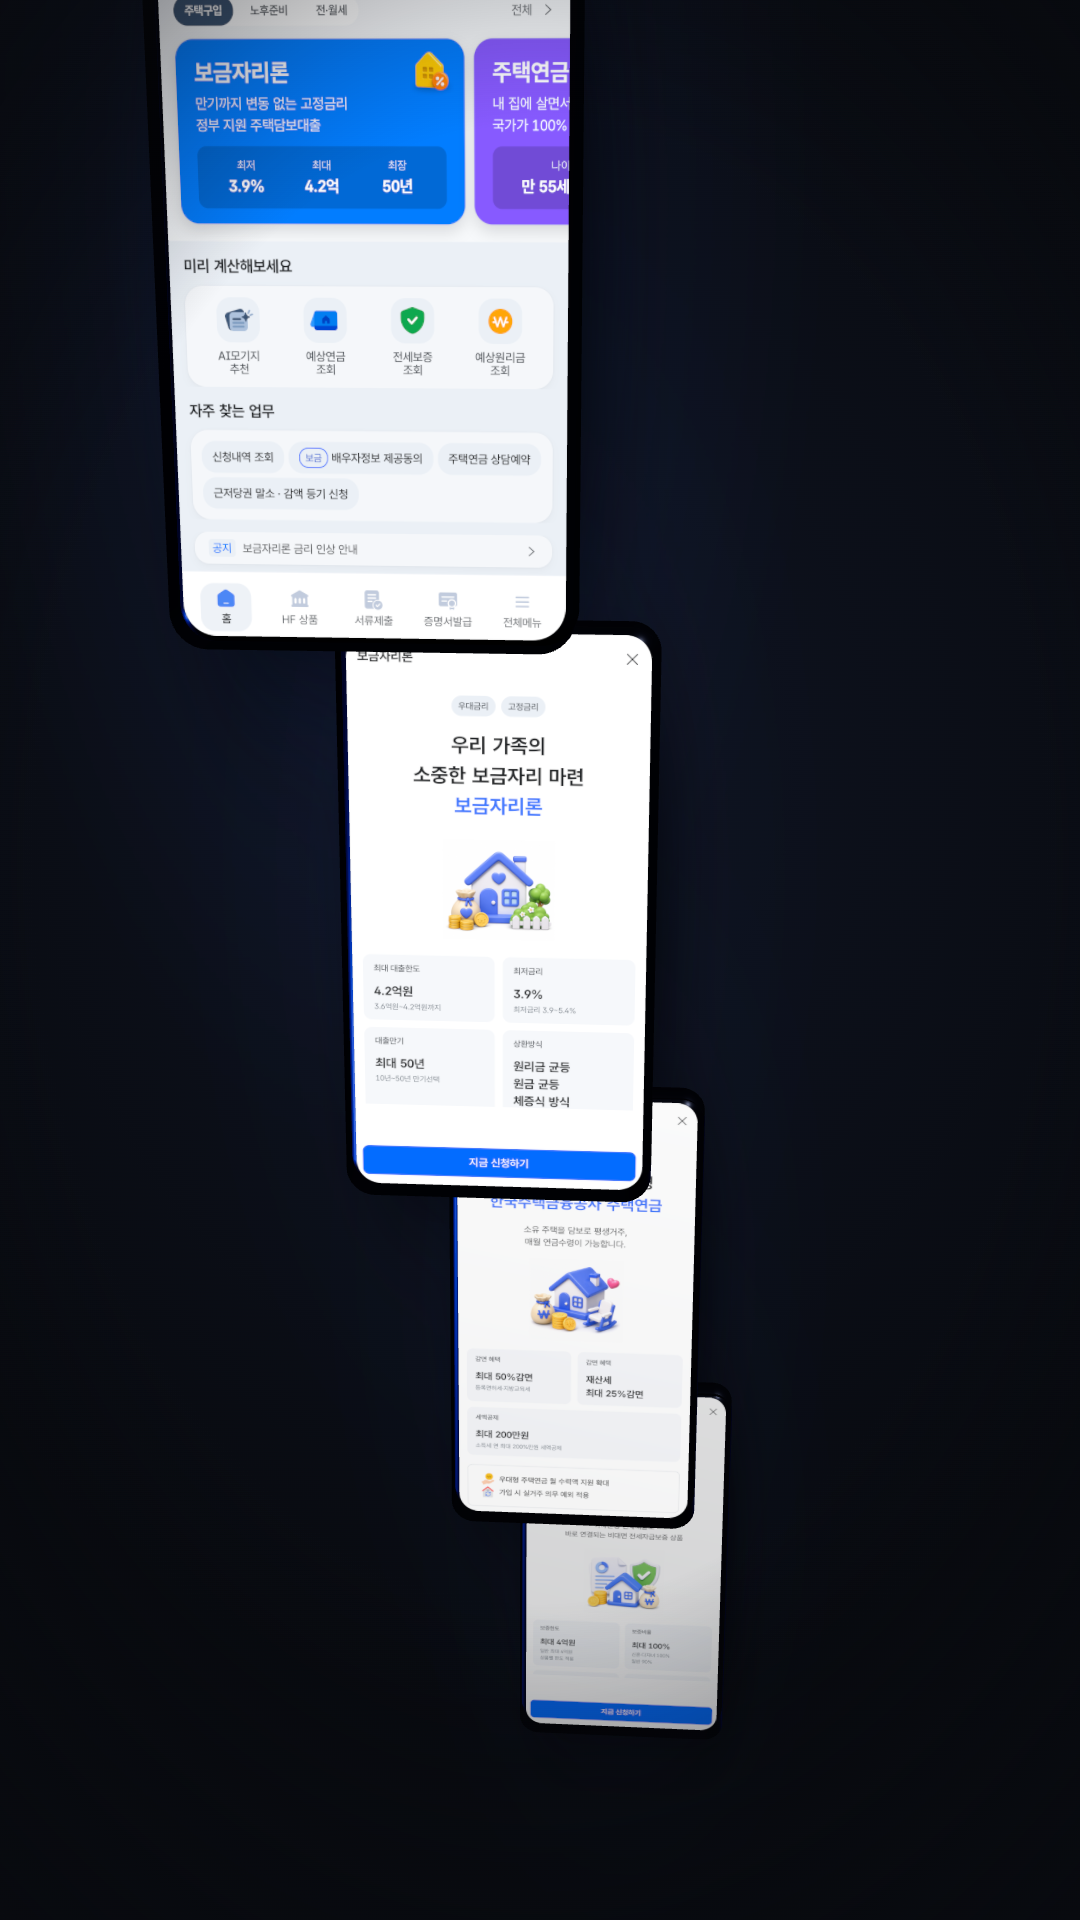
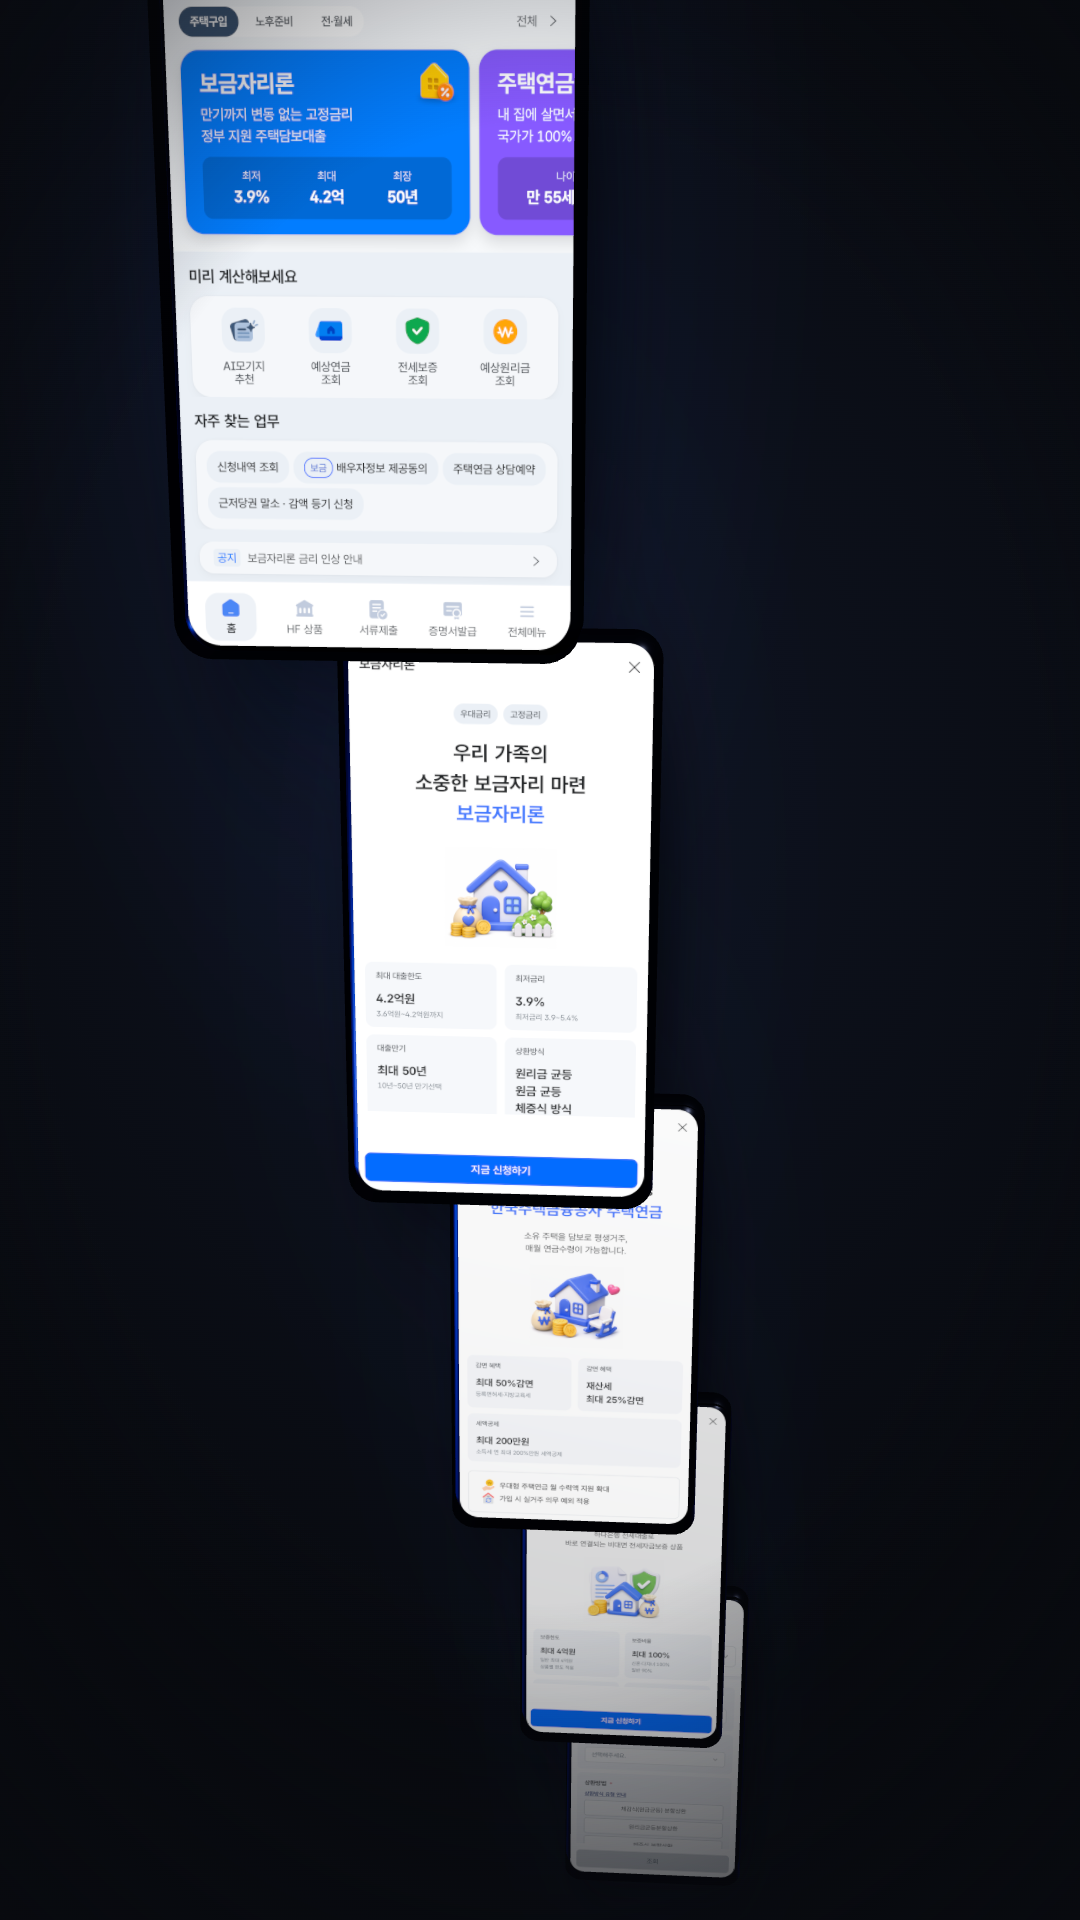
HF vertical flythrough: add repayment screen (5 screens)
Longer staircase, four-page flythrough, overview reworked to home
front-centre with four screens fanned behind; refreshed stills.

Claude-Session: https://claude.ai/code/session_019kZ9HtGXyuu9kNJRq9Jcr6

Changed region(s): [[0.1222, 0.0, 0.7028, 1.0], [0.4278, 0.1562, 0.4889, 0.25], [0.6417, 0.7188, 0.6722, 0.75]]

diff --git a/3d-website-flythrough/src/hf/layout.ts b/3d-website-flythrough/src/hf/layout.ts
@@ -18,16 +18,17 @@ const st = (i: number, d: Vec3 = [0, 0, 0]): Vec3 => [
 ];
 const add = (a: Vec3, b: Vec3): Vec3 => [a[0] + b[0], a[1] + b[1], a[2] + b[2]];
 
-// Overview 2×2 grid centre and slots (home TL, 보금자리론 TR, 주택연금 BL, 전세ON BR)
-export const C: Vec3 = [1.4, -6.4, -4.6];
+// Overview: home front-centre, the other four fanned behind at the corners.
+export const C: Vec3 = [2.0, -9.4, -6.4];
 const GRID: { off: Vec3; rot: Vec3 }[] = [
-  { off: [-1.26, 2.3, 0.15], rot: [3 * DEG, 11 * DEG, 0] },
-  { off: [1.26, 2.36, -0.45], rot: [3 * DEG, -11 * DEG, 0] },
-  { off: [-1.26, -2.36, -0.45], rot: [-3 * DEG, 11 * DEG, 0] },
-  { off: [1.26, -2.3, 0.15], rot: [-3 * DEG, -11 * DEG, 0] },
+  { off: [0, 0, 1.5], rot: [0, 0, 0] }, // home
+  { off: [-1.5, 2.45, -1.1], rot: [3 * DEG, 15 * DEG, 0] },
+  { off: [1.5, 2.45, -1.1], rot: [3 * DEG, -15 * DEG, 0] },
+  { off: [-1.5, -2.45, -1.1], rot: [-3 * DEG, 15 * DEG, 0] },
+  { off: [1.5, -2.45, -1.1], rot: [-3 * DEG, -15 * DEG, 0] },
 ];
-// Ending: the home screen comes to the centre, slightly forward.
-export const END: Vec3 = add(C, [0, 0, 1.2]);
+// Ending: the home screen stays front-centre.
+export const END: Vec3 = add(C, [0, 0, 1.5]);
 
 const STAIR_ROT: Vec3 = [0, -9 * DEG, 0];
 
@@ -60,10 +61,10 @@ function keysFor(i: number): Key<PanelPose>[] {
   }
   const target = st(i);
   const hidden: PanelPose = { pos: [0.15, -0.3, -0.6], rot: STAIR_ROT, scale: 0.84, opacity: 0 };
-  const start = s(3.05) + (i - 1) * 12;
+  const start = s(3.05) + (i - 1) * 10;
   const settled: PanelPose = { pos: target, rot: STAIR_ROT, scale: 1, opacity: 1 };
   const away: PanelPose = {
-    pos: add(ov.pos, [Math.sign(g.off[0]) * 1.1, Math.sign(g.off[1]) * 0.8, -2.6]),
+    pos: add(ov.pos, [Math.sign(g.off[0]) * 1.2, Math.sign(g.off[1]) * 1.0, -2.8]),
     rot: ov.rot,
     scale: 0.95,
     opacity: 0,
@@ -78,7 +79,7 @@ function keysFor(i: number): Key<PanelPose>[] {
   ];
 }
 
-const KEYS = [0, 1, 2, 3].map(keysFor);
+const KEYS = [0, 1, 2, 3, 4].map(keysFor);
 
 export function phonePose(i: number, frame: number): PanelPose {
   const p = track(frame, KEYS[i], mixPose);
@@ -108,13 +109,14 @@ export const CAM_KEYS: CamKey[] = [
   { f: s(4.4), pos: [-1.6, 0.6, 12.6], look: [0.9, -3.6, -2.6], roll: 0.012, fov: 46 },
   { f: s(6), pos: [2.6, -2.2, 12.2], look: [1.8, -7.4, -4.8], roll: -0.012, fov: 46 },
   // 03 FLYTHROUGH — descend past each page, close enough to read the cards
-  { f: s(7.1), pos: st(1, [-0.9, 0.2, 6.6]), look: st(1, [0.15, -0.1, 0]), roll: 0.025, fov: 46 },
-  { f: s(8.1), pos: st(2, [-0.9, 0.2, 6.6]), look: st(2, [0.15, -0.1, 0]), roll: -0.03, fov: 46 },
-  { f: s(9.1), pos: st(3, [-0.9, 0.2, 6.6]), look: st(3, [0.15, -0.1, 0]), roll: 0.025, fov: 46 },
-  { f: s(10), pos: st(3, [-2.0, 2.2, 9.0]), look: st(2, [0.6, -1.6, -1.0]), roll: 0, fov: 46 },
-  // 04 OVERVIEW — pull back to the 2×2 grid
-  { f: s(11.3), pos: G([1.1, 0.4, 12.8]), look: G([0.15, -0.5, 0]), fov: 46 },
-  { f: s(13), pos: G([0, 0.0, 14.0]), look: G([0, -0.55, 0]), fov: 46 },
+  { f: s(6.9), pos: st(1, [-0.9, 0.2, 6.6]), look: st(1, [0.15, -0.1, 0]), roll: 0.025, fov: 46 },
+  { f: s(7.7), pos: st(2, [-0.9, 0.2, 6.6]), look: st(2, [0.15, -0.1, 0]), roll: -0.03, fov: 46 },
+  { f: s(8.5), pos: st(3, [-0.9, 0.2, 6.6]), look: st(3, [0.15, -0.1, 0]), roll: 0.025, fov: 46 },
+  { f: s(9.3), pos: st(4, [-0.9, 0.2, 6.6]), look: st(4, [0.15, -0.1, 0]), roll: -0.02, fov: 46 },
+  { f: s(10.05), pos: st(4, [-2.2, 3.4, 9.6]), look: st(3, [0.8, -2.4, -1.0]), roll: 0, fov: 46 },
+  // 04 OVERVIEW — pull back to the 5-screen fan
+  { f: s(11.3), pos: G([1.1, 0.4, 14.0]), look: G([0.15, -0.5, 0]), fov: 46 },
+  { f: s(13), pos: G([0, 0.0, 15.4]), look: G([0, -0.55, 0]), fov: 46 },
   // 05 ENDING — head-on to the home screen
   { f: s(14.25), pos: E([0, -0.3, 9.2]), look: E([0, -1.05, 0]), fov: 44 },
   { f: s(15) - 1, pos: E([0, -0.3, 8.8]), look: E([0, -1.05, 0]), fov: 44 },

diff --git a/3d-website-flythrough/src/hf/screens.ts b/3d-website-flythrough/src/hf/screens.ts
@@ -1,7 +1,7 @@
 import { CanvasTexture, LinearMipmapLinearFilter, SRGBColorSpace, type Texture } from "three";
 import { staticFile } from "remotion";
 
-export const HF_SCREENS = ["hf/01-home.png", "hf/02-bogeumjari.png", "hf/03-pension.png", "hf/04-jeonse.png"];
+export const HF_SCREENS = ["hf/01-home.png", "hf/02-bogeumjari.png", "hf/03-pension.png", "hf/04-jeonse.png", "hf/05-repayment.png"];
 
 const loadImage = (src: string) =>
   new Promise<HTMLImageElement>((res, rej) => {

diff --git a/3d-website-flythrough/README.md b/3d-website-flythrough/README.md
@@ -76,7 +76,7 @@ GL=swangle npm run stills            # CPU (PowerShell: $env:GL="swangle"; npm r
 
 ## HF 앱 세로형 버전 (FlythroughHF · 1080×1920 · 9:16)
 
-HF 앱 실제 화면 4장(`public/hf/`, 상태바를 잘라낸 1320×2560)을 폰 패널로 띄운 세로형 버전입니다.
+HF 앱 실제 화면 5장(`public/hf/`, 홈·보금자리론·주택연금·전세ON·상환원리금 조회, 상태바를 잘라낸 1320×2560)을 폰 패널로 띄운 세로형 버전입니다.
 코드는 `src/hf/`에 있고(레이아웃·카메라 `layout.ts`, 타이틀 `HfOverlay.tsx`), 포인트 컬러는 #3366FF, 폰트는 Noto Sans KR입니다.
 
 ```bash
